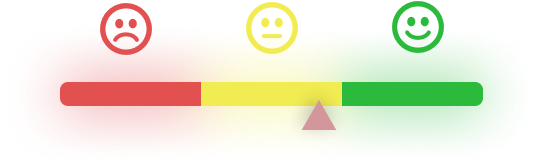
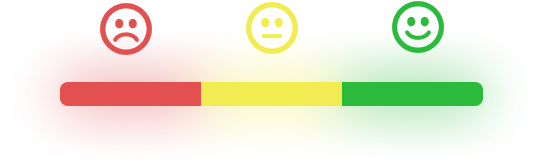
nbn

Changed region(s): [[0.5599, 0.6024, 0.6188, 0.7831]]

diff --git a/src/components/MarketAynal.tsx b/src/components/MarketAynal.tsx
@@ -27,36 +27,17 @@ const MarketAnalysis = () => {
           <h4 className="text-sm font-semibold text-white mb-4">
             Sentiment Analysis: BTC
           </h4>
-          <div className="flex justify-between items-center mt-2">
+          <div className="flex justify-between items-center mt-2 relative ">
           <img src="images/rate.png" alt=""  />
+          <img 
+            src="images/pol.png" 
+            alt="" 
+            className="w-auto h-auto max-w-full absolute top-[36%] left-[20%] animate-slide-left" 
+          />
           </div>
         </div>
 
-        {/* Other Analysis Section */}
-        {/* <div className="  p-4   ">
-          <h4 className="text-lg font-semibold text-white mb-2">
-            Other Analysis: BTC
-          </h4>
-          <p className="text-sm text-white py-2">As of January 13, 2025, Bitcoin (BTC) has experienced significant 
-          developments:</p>
-          <ul className="list-disc list-inside text-gray-300">
-            <li className="text-sm text-white py-1">
-             Price Milestone: In December 2024, Bitcoin
-              surpassed the $100,000 mark, reaching an all-time high of
-              $103,332.30 on December 4, 2024.{" "}
-           
-            </li>
-         
-            <li className="text-sm text-white py-1">
-             ETF Approvals: The U.S. Securities and Exchange
-              Commission (SEC) approved multiple spot Bitcoin exchange-traded
-              funds (ETF-s) in January 2024.{" "}
-            
-            </li>
-      
-        
-          </ul>
-        </div> */}
+ 
       </div>
       </div>
     </div>

diff --git a/tailwind.config.js b/tailwind.config.js
@@ -9,6 +9,16 @@ export default {
       fontFamily: {
         sans: ['Inter', 'sans-serif'],
       },
+      keyframes: {
+        'slide-left': {
+          '0%': { left: '20%' },
+          '50%': { left: '60%' },
+          '100%': { left: '20%' }
+        }
+      },
+      animation: {
+        'slide-left': 'slide-left 5s infinite ease-in-out'
+      }
     },
   },
   plugins: [],

diff --git a/src/styles/globals.css b/src/styles/globals.css
@@ -1,0 +1,15 @@
+@keyframes slideLeft {
+  0% {
+    left: 20%;
+  }
+  50% {
+    left: 60%;
+  }
+  100% {
+    left: 20%;
+  }
+}
+
+.animate-slide-left {
+  animation: slideLeft 5s infinite ease-in-out;
+} 
